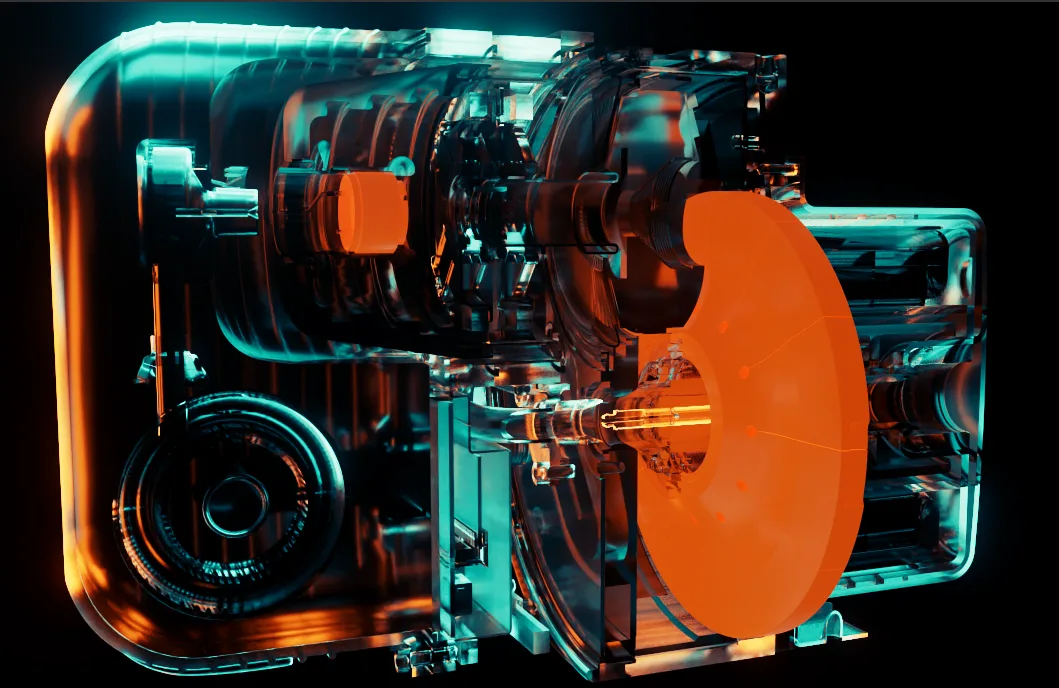
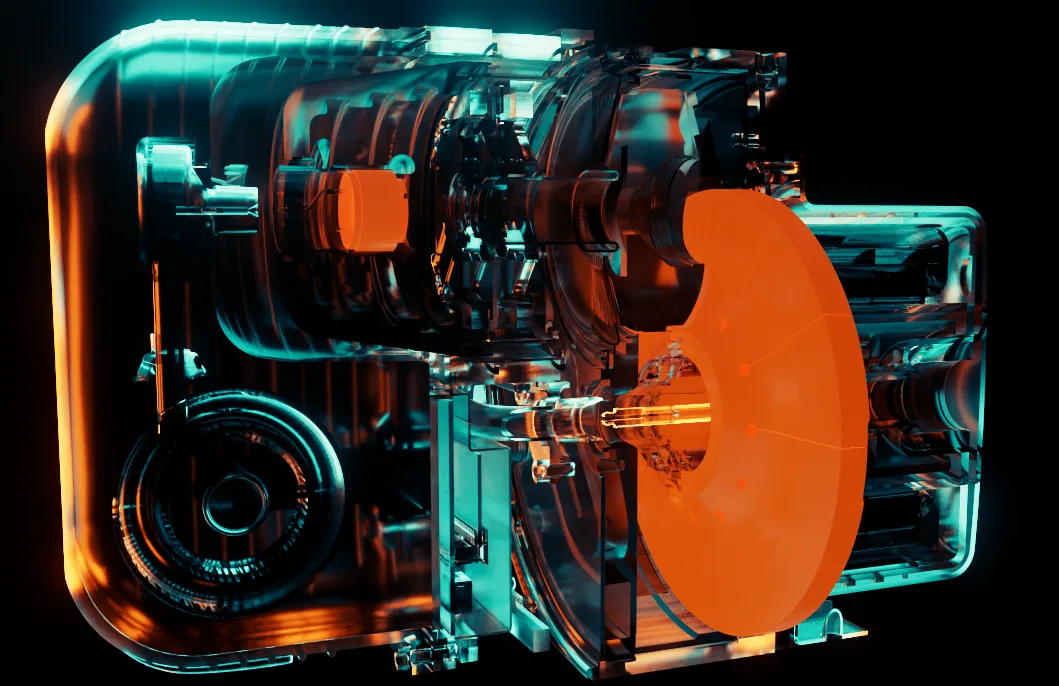
Mask Added

diff --git a/experiments.html b/experiments.html
@@ -26,8 +26,8 @@
 
   <main class="subpage-content experiments-page-content" aria-label="Experiments">
     <section class="experiments-grid" aria-label="Experiment media grid">
-      <article class="experiment-card"><div class="experiment-index">[01]</div><div class="experiment-media experiment-video" style="--media-ratio: 1 / 1;"><iframe src="https://player.vimeo.com/video/1223719719?autoplay=1&amp;loop=1&amp;muted=1&amp;background=1&amp;autopause=0&amp;dnt=1" title="Experiment 01" loading="lazy" allow="autoplay; fullscreen; picture-in-picture" allowfullscreen></iframe></div></article>
-      <article class="experiment-card"><div class="experiment-index">[02]</div><div class="experiment-media experiment-video" style="--media-ratio: 2 / 3;"><iframe src="https://player.vimeo.com/video/1223719717?autoplay=1&amp;loop=1&amp;muted=1&amp;background=1&amp;autopause=0&amp;dnt=1" title="Experiment 02" loading="lazy" allow="autoplay; fullscreen; picture-in-picture" allowfullscreen></iframe></div></article>
+      <article class="experiment-card"><div class="experiment-index">[01]</div><div class="experiment-media experiment-video" style="--media-ratio: 2 / 3;"><iframe src="https://player.vimeo.com/video/1223719719?autoplay=1&amp;loop=1&amp;muted=1&amp;background=1&amp;autopause=0&amp;dnt=1" title="Experiment 01" loading="lazy" allow="autoplay; fullscreen; picture-in-picture" allowfullscreen></iframe></div></article>
+      <article class="experiment-card"><div class="experiment-index">[02]</div><div class="experiment-media experiment-video" style="--media-ratio: 2 / 3;"><iframe src="https://player.vimeo.com/video/1223716710?autoplay=1&amp;loop=1&amp;muted=1&amp;background=1&amp;autopause=0&amp;dnt=1" title="Experiment 02" loading="lazy" allow="autoplay; fullscreen; picture-in-picture" allowfullscreen></iframe></div></article>
       <article class="experiment-card"><div class="experiment-index">[03]</div><div class="experiment-media experiment-video" style="--media-ratio: 2 / 3;"><iframe src="https://player.vimeo.com/video/1223704382?autoplay=1&amp;loop=1&amp;muted=1&amp;background=1&amp;autopause=0&amp;dnt=1" title="Experiment 03" loading="lazy" allow="autoplay; fullscreen; picture-in-picture" allowfullscreen></iframe></div></article>
       <article class="experiment-card"><div class="experiment-index">[04]</div><div class="experiment-media experiment-video" style="--media-ratio: 2 / 3;"><iframe src="https://player.vimeo.com/video/1223695679?autoplay=1&amp;loop=1&amp;muted=1&amp;background=1&amp;autopause=0&amp;dnt=1" title="Experiment 04" loading="lazy" allow="autoplay; fullscreen; picture-in-picture" allowfullscreen></iframe></div></article>
       <article class="experiment-card"><div class="experiment-index">[05]</div><div class="experiment-media experiment-video" style="--media-ratio: 2 / 3;"><iframe src="https://player.vimeo.com/video/1223704116?autoplay=1&amp;loop=1&amp;muted=1&amp;background=1&amp;autopause=0&amp;dnt=1" title="Experiment 05" loading="lazy" allow="autoplay; fullscreen; picture-in-picture" allowfullscreen></iframe></div></article>
@@ -37,15 +37,12 @@
       <article class="experiment-card"><div class="experiment-index">[08]</div><div class="experiment-media experiment-video" style="--media-ratio: 2 / 3;"><iframe src="https://player.vimeo.com/video/1223716754?autoplay=1&amp;loop=1&amp;muted=1&amp;background=1&amp;autopause=0&amp;dnt=1" title="Experiment 08" loading="lazy" allow="autoplay; fullscreen; picture-in-picture" allowfullscreen></iframe></div></article>
       <article class="experiment-card"><div class="experiment-index">[09]</div><img class="experiment-media" src="assets/Projects/Experiments/9.webp" alt="Experiment 09" width="571" height="876" loading="lazy" decoding="async"></article>
       <article class="experiment-card"><div class="experiment-index">[10]</div><img class="experiment-media" src="assets/Projects/Experiments/10.webp" alt="Experiment 10" width="552" height="994" loading="lazy" decoding="async"></article>
-      <article class="experiment-card"><div class="experiment-index">[11]</div><div class="experiment-media experiment-video" style="--media-ratio: 4 / 3;"><iframe src="https://player.vimeo.com/video/1223716755?autoplay=1&amp;loop=1&amp;muted=1&amp;background=1&amp;autopause=0&amp;dnt=1" title="Experiment 11" loading="lazy" allow="autoplay; fullscreen; picture-in-picture" allowfullscreen></iframe></div></article>
+      <article class="experiment-card"><div class="experiment-index">[11]</div><div class="experiment-media experiment-video" style="--media-ratio: 2 / 3;"><iframe src="https://player.vimeo.com/video/1223716755?autoplay=1&amp;loop=1&amp;muted=1&amp;background=1&amp;autopause=0&amp;dnt=1" title="Experiment 11" loading="lazy" allow="autoplay; fullscreen; picture-in-picture" allowfullscreen></iframe></div></article>
       <article class="experiment-card"><div class="experiment-index">[12]</div><div class="experiment-media experiment-video" style="--media-ratio: 2 / 3;"><iframe src="https://player.vimeo.com/video/1223717801?autoplay=1&amp;loop=1&amp;muted=1&amp;background=1&amp;autopause=0&amp;dnt=1" title="Experiment 12" loading="lazy" allow="autoplay; fullscreen; picture-in-picture" allowfullscreen></iframe></div></article>
 
-      <article class="experiment-card"><div class="experiment-index">[13]</div><img class="experiment-media" src="assets/Projects/Experiments/13.webp" alt="Experiment 13" width="1059" height="688" loading="lazy" decoding="async"></article>
-      <article class="experiment-card"><div class="experiment-index">[14]</div><div class="experiment-media experiment-video" style="--media-ratio: 1 / 1;"><iframe src="https://player.vimeo.com/video/1223718122?autoplay=1&amp;loop=1&amp;muted=1&amp;background=1&amp;autopause=0&amp;dnt=1" title="Experiment 14" loading="lazy" allow="autoplay; fullscreen; picture-in-picture" allowfullscreen></iframe></div></article>
+      <article class="experiment-card"><div class="experiment-index">[13]</div><img class="experiment-media" src="assets/Projects/Experiments/13.webp?v=2" alt="Experiment 13" width="1059" height="686" loading="lazy" decoding="async"></article>
+      <article class="experiment-card"><div class="experiment-index">[14]</div><div class="experiment-media experiment-video" style="--media-ratio: 2 / 3;"><iframe src="https://player.vimeo.com/video/1223718122?autoplay=1&amp;loop=1&amp;muted=1&amp;background=1&amp;autopause=0&amp;dnt=1" title="Experiment 14" loading="lazy" allow="autoplay; fullscreen; picture-in-picture" allowfullscreen></iframe></div></article>
       <article class="experiment-card"><div class="experiment-index">[15]</div><img class="experiment-media" src="assets/Projects/Experiments/15.webp" alt="Experiment 15" width="1429" height="2000" loading="lazy" decoding="async"></article>
-      <article class="experiment-card"><div class="experiment-index">[16]</div><div class="experiment-media experiment-placeholder" style="--media-ratio: 1 / 1;" aria-hidden="true"></div></article>
-      <article class="experiment-card"><div class="experiment-index">[17]</div><div class="experiment-media experiment-placeholder" style="--media-ratio: 3 / 4;" aria-hidden="true"></div></article>
-      <article class="experiment-card"><div class="experiment-index">[18]</div><div class="experiment-media experiment-placeholder" style="--media-ratio: 4 / 3;" aria-hidden="true"></div></article>
     </section>
 
     <footer class="subpage-footer">

diff --git a/index.html b/index.html
@@ -15,7 +15,7 @@
   <link rel="icon" href="assets/favicon.svg" type="image/svg+xml">
   <link rel="apple-touch-icon" href="assets/apple-icon.png">
 
-  <link rel="stylesheet" href="app.css?v=134">
+  <link rel="stylesheet" href="app.css?v=136">
 
   <script type="application/ld+json">
     {
@@ -83,7 +83,7 @@
 
   <!-- Keyvisual Background Container -->
   <div class="keyvisual-container" id="keyvisualContainer">
-    <img src="assets/Mask_v1.webp" alt="" class="keyvisual-mask" id="keyvisualMask" width="2160" height="2880" decoding="async" fetchpriority="high">
+    <iframe src="https://player.vimeo.com/video/1223770173?autoplay=1&amp;loop=1&amp;muted=1&amp;background=1&amp;autopause=0&amp;dnt=1" class="keyvisual-mask keyvisual-mask-video" id="keyvisualMask" title="Youth + Ignorance key visual" width="720" height="960" allow="autoplay; fullscreen; picture-in-picture" tabindex="-1" aria-hidden="true"></iframe>
   </div>
 
   <!-- Desktop Main Content Grid -->

diff --git a/app.css b/app.css
@@ -279,6 +279,13 @@ a {
   mix-blend-mode: screen; /* Blend out off-black compression noise and borders */
 }
 
+.keyvisual-mask-video {
+  width: min(50vw, 60vh);
+  height: auto;
+  aspect-ratio: 3 / 4;
+  border: 0;
+}
+
 .keyvisual-mask.hidden {
   opacity: 0;
 }
@@ -288,6 +295,10 @@ a {
     max-width: 80%;
     max-height: 50vh;
     margin-top: -5vh;
+  }
+
+  .keyvisual-mask-video {
+    width: min(80vw, 37.5vh);
   }
 }
 

diff --git a/style.css b/style.css
@@ -279,6 +279,13 @@ a {
   mix-blend-mode: screen; /* Blend out off-black compression noise and borders */
 }
 
+.keyvisual-mask-video {
+  width: min(50vw, 60vh);
+  height: auto;
+  aspect-ratio: 3 / 4;
+  border: 0;
+}
+
 .keyvisual-mask.hidden {
   opacity: 0;
 }
@@ -288,6 +295,10 @@ a {
     max-width: 80%;
     max-height: 50vh;
     margin-top: -5vh;
+  }
+
+  .keyvisual-mask-video {
+    width: min(80vw, 37.5vh);
   }
 }
 
